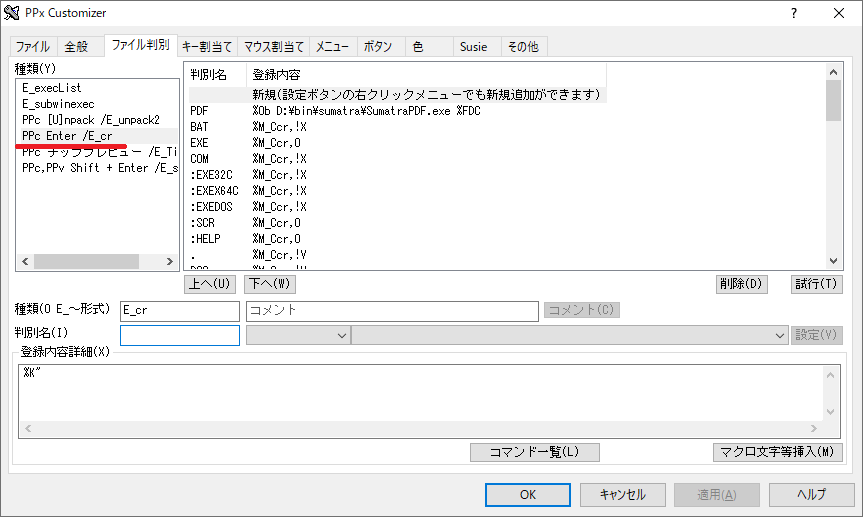
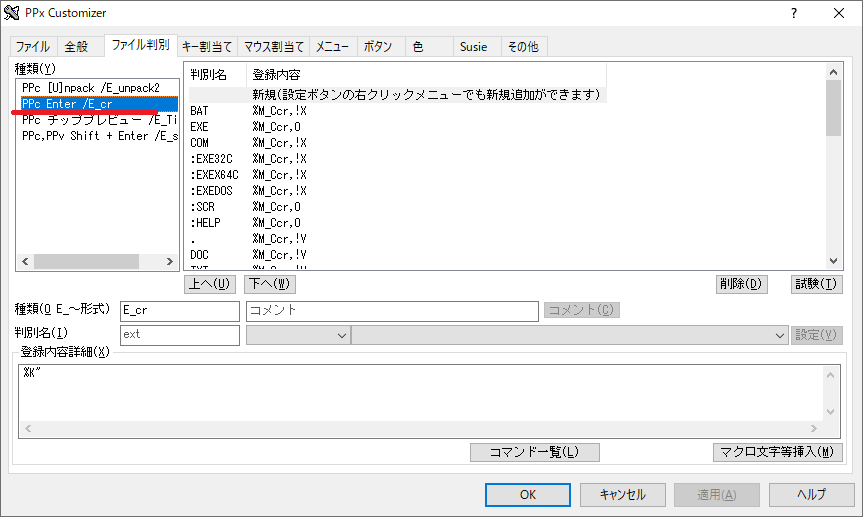
テキスト編集によるカスタマイズ追加

diff --git a/my_collections/_basic/ext02.md b/my_collections/_basic/ext02.md
@@ -1,25 +1,55 @@
 ---
-title: 新規作成
+title: ファイル判別の新規作成
 part: ファイル判別
 created_at: 2022-03-31
-last_modified_at: 
+last_modified_at: 2023-07-22
 ---
+
+## GUIによるカスタマイズ
 
 カスタマイザーを開き、ファイル判別タブを選択する。種類のところに、既存のファイル判別パターンの名前（ここではE_cr）が入力されている。これを消して、新規に作りたいパターンの名前を入力する。ここでは、E_testとしよう。
 
-![alt]({{ "/assets/images/hanbetunew01.png" | relative_url }})
+![種類の指定]({{ "/assets/images/hanbetunew01.png" | relative_url }})
 
 ついで、判別名に拡張子を。登録内容詳細に、その拡張子で実行したい内容を書き、設定をクリック。
 
-![alt]({{ "/assets/images/hanbetunew02.png" | relative_url }})
+![拡張子とコマンドを登録]({{ "/assets/images/hanbetunew02.png" | relative_url }})
 
 すると、新たな種類E_testが作成され、そこに先の拡張子判別が登録される。
 
-![alt]({{ "/assets/images/hanbetunew03.png" | relative_url }})
+![追加された]({{ "/assets/images/hanbetunew03.png" | relative_url }})
 
 次に、２つ目の拡張子を登録する。左上の種類から、先に作成したパターン（E_test）を選択。右上から新規を選択したあと、項目名と登録内容を埋めて、設定を押す。
 
-![alt]({{ "/assets/images/hanbetunew04.png" | relative_url }})
+![2つ目の拡張子登録]({{ "/assets/images/hanbetunew04.png" | relative_url }})
 
 同様にして、拡張子を登録していく。全て登録し終えたら、適用をクリックしよう。
-こうして作成した拡張子別判別は、`%ME_xxx`で実行することができる。
+
+## テキスト編集によるカスタマイズ
+
+- 判別方法,コマンドライン
+
+という書式で記載する。
+
+```text
+E_test    = {    ; PPcメイン窓
+*	,editor %FCD
+.	,editor %FCD
+:DIR	= C_DIR
+:JPEG	,
+TXT	,editor %FCD
+JPG	,mspaint %FCD
+JPEG	,mspaint %FCD
+PNG	,mspaint %FCD
+}
+```
+
+- 「*」は該当設定がない場合に使われる
+- 「.」は拡張子がないファイルに使われる
+- 「:DIR」はディレクトリに使われる
+- 「:JPEG」はファイルの中身からJPEGと判別したときに使われる
+- 特定の名前、ワイルドカード、正規表現による判別も可能
+
+## 拡張子判別の実行
+
+作成したファイル判別は、`%ME_xxx`(ここでの例なら`%ME_test`)で実行することができる。

diff --git a/my_collections/_basic/menu01.md b/my_collections/_basic/menu01.md
@@ -1,34 +1,54 @@
 ---
-title: 新規作成
+title: メニューの作り方
 part: メニュー
 created_at: 2022-03-31
-last_modified_at: 
+last_modified_at: 2023-07-22
 ---
+
+## GUIによるカスタマイズ
 
 メニュータブを選択する。
 
-![alt]({{ "/assets/images/menu01.png" | relative_url }})
+![メニュータブ]({{ "/assets/images/menu01.png" | relative_url }})
 
 種類のところに、既存のメニュー名（ここではM_pjump）が入力されている。これを消して、新規に作りたいメニュー名を入力する。ここでは、M_testというメニュー名にしよう。
 次いで、個々の項目を登録。項目名と登録内容を記入して、設定を押す。
 
-![alt]({{ "/assets/images/menu03.png" | relative_url }})
+![設定ボタン]({{ "/assets/images/menu03.png" | relative_url }})
 
 すると、新たにM_testメニューが作成され、そこに先に登録した項目が登録される。
 
-![alt]({{ "/assets/images/menu04.png" | relative_url }})
+![登録内容の欄]({{ "/assets/images/menu04.png" | relative_url }})
 
 次に、２つ目の項目を登録する。左上の種類から、先に作成したメニュー（M_test）を選択。右上から新規を選択したあと、項目名と登録内容を埋めて、設定を押す。
 
-![alt]({{ "/assets/images/menu05.png" | relative_url }})
+![2つ目の項目を登録]({{ "/assets/images/menu05.png" | relative_url }})
 
 同様にして、項目を追加していく。
 
 区切り線を挿入したい場合は、線挿入をクリックして、挿入したいものを選択。登録内容は空欄でいい。
 
-![alt]({{ "/assets/images/menu06.png" | relative_url }})
+![区切り線]({{ "/assets/images/menu06.png" | relative_url }})
 
 項目を全て追加したら、適用をクリックしよう。
 
-作成したメニューは、`%M_xxx`で表示できる。
+## テキスト編集によるカスタマイズ
 
+「表示内容 = 項目内容」の形式で記載する。
+
+```text
+-|M_test=
+
+M_test = {
+Systemメニュー = %K"@&SPACE"
+最小化 = %K"@\ESC"
+-- =
+Help表示 = %K"@F1"
+}
+```
+
+## メニューの表示
+
+作成したメニューは`%M_xxx`(ここでの例なら`%M_test`)で表示できる。
+
+![メニュー表示]({{ "/assets/images/menu07.png" | relative_url }})

diff --git a/my_collections/_basic/cust04.md b/my_collections/_basic/cust04.md
@@ -2,27 +2,30 @@
 title: キー割り当て
 part: 基本的なカスタマイズ
 created_at: 2022-03-31
-last_modified_at: 
+last_modified_at: 2023-07-22
 ---
-## 種類の選択
+
+## GUIによるカスタマイズ
+
+### 種類の選択
 
 ![alt]({{ "/assets/images/key01.png" | relative_url }})
 
 まずは、種類を選択。ファイラ部分のキーカスタマイズをしたいならPPc /KC_mainを選択しよう。他にいじる機会が多いのは、ビューア部分のPPV / KV_main。
 
-## 新規を選択
+### 新規を選択
 
 ![alt]({{ "/assets/images/key02.png" | relative_url }})
 
 右上のウィンドウの、新規にカーソルあわせる。既に設定したキーバインドを変更したい場合は、それを選択しよう。
 
-## キー指定
+### キー指定
 
 ![alt]({{ "/assets/images/key03.png" | relative_url }})
 
 キー指定をクリックし、割り当てたいキーを押して、Okをクリック。
 
-## 内容を登録する
+### 内容を登録する
 
 ついで、内容を登録する。登録内容詳細に直接書いてもいいし、
 
@@ -37,3 +40,28 @@ last_modified_at:
 ![alt]({{ "/assets/images/key06.png" | relative_url }})
 
 その後、設定ボタンを押す。これで、そのキーバインドが追加される。適用ボタンを押すと、その設定が反映される。
+
+## テキスト編集によるカスタマイズ
+
+- キー割り当ての対象
+- 割り当て先キー名称
+- 割り当てるキー名称/実行するコマンド
+
+を以下の書式で記述する。
+
+```text
+KC_main	= {	; PPcメイン窓
+^\T	= @F1
+F9	,echo hoge
+F10	,*string o,hoge=%FCD
+	echo %so"hoge"
+F11	,*ifmatch 0,"0%2" %: *linemessage 反対窓はありません %: *stop
+	*linemessage 反対窓があります
+FIRSTEVENT , *checkupdate ni
+}
+```
+
+- 単純にキーを割り当てたい場合は「=」を、それ以外の場合は「,」を使う
+- `^\T	= @F1`の「@」は、初期割り当てキーを指定するためのもの。これがないと、[F1]をカスタマイズしていた場合、その内容を読み取ってしまう
+- 実行したいキーには、各種EVENTを登録することもできる
+

diff --git a/my_collections/_basic/cust05.md b/my_collections/_basic/cust05.md
@@ -12,7 +12,7 @@ last_modified_at:
 
 の三つを設定することになる。
 
-## カスタマイザーでの設定方法
+## GUIによるカスタマイズ
 
 マウス割当てタブを開き、種類からMC_clic（PPcの場合。PPvの場合はMV_clic）を。右上の項目から新規を選択。①のドロップダウンリストから、割り当てたいボタン種を選択する。
 
@@ -36,7 +36,7 @@ last_modified_at:
 設定が全て終わったら、下部のOKボタンか適用を押して、設定を反映させよう。
 
 
-## CFGで編集
+## テキスト編集によるカスタマイズ
 
 CFGのMC_clic（PPcの場合。PPvの場合はMV_clic）を編集することでも、マウスクリックの割当てをカスタマイズすることができる。
 
@@ -67,5 +67,3 @@ X_ENT = @^LEFT
 LD_ENTであれば「エントリ（ENT)を左ダブルクリック（LD）した時」の意味であり、L_FRAMであれば「フレーム（FRAM)を左クリック（L）した時」の意味。
 
 &や^は修飾キーで、&LD_ENTであれば「エントリ（ENT）をAltキー（&）を押しながら左ダブルクリック（LD）した時」になるわけだ。
-
-慣れたら、カスタマイザーを使うよりはCFGを編集する方が、早くて楽かもしれない。

diff --git a/my_collections/_basic/cust06.md b/my_collections/_basic/cust06.md
@@ -15,7 +15,7 @@ XV_drag = 0,1,3,2 ; ドラッグ開始ボタン スクロール,選択,窓移動
 
 このページでは、マウスジェスチャーをカスタマイズする方法について解説する。
 
-## カスタマイザーでの設定方法
+## GUIによるカスタマイズ
 
 マウス割当てタブを開き、種類からMC_clic（PPcの場合。PPvの場合はMV_clic）を。右上の項目から新規を選択。①のドロップダウンリス トから、「RG 右ジェスチャ」を選択する。ドロップダウンリストの最初の項目ではあるが、一度ドロップダウンリストを開き、選択をし直す必要がある。
 
@@ -33,7 +33,7 @@ XV_drag = 0,1,3,2 ; ドラッグ開始ボタン スクロール,選択,窓移動
 
 設定が全て終わったら、下部のOKボタンか適用を押せば、設定が反映される。
 
-## CFGで編集
+## テキスト編集によるカスタマイズ
 
 CFGのMC_clic（PPcの場合。PPvの場合はMV_clic）を編集することでも、マウスジェスチャーをカスタマイズすることができる。  書式は次のようになっている。
 

diff --git a/my_collections/_basic/ext01.md b/my_collections/_basic/ext01.md
@@ -1,8 +1,8 @@
 ---
-title: 判別の追加
+title: ファイル判別の追加
 part: ファイル判別
 created_at: 2022-03-31
-last_modified_at: 
+last_modified_at: 2023-07-22
 ---
 デフォルトでは
 
@@ -12,14 +12,28 @@ last_modified_at:
 
 のファイル判別が用意されている。ここでは、Enterのファイル判別をカスタマイズしてみよう。
 
+## GUIによるカスタマイズ
+
 - カスタマイザー - ファイル判別タブ
 
 から PPc [Enter] /E_cr を選択する。
 
-![alt]({{ "/assets/images/hanbetu01.png" | relative_url }})
+![E_cr]({{ "/assets/images/hanbetu01.png" | relative_url }})
 
 判別名に拡張子を。登録内容詳細に実行したいコマンドを入力して、設定を押す。
 
-![alt]({{ "/assets/images/hanbetu02.png" | relative_url }})
+![設定ボタンを押す]({{ "/assets/images/hanbetu02.png" | relative_url }})
 
 設定が終わったら、適用あるいはOKを押す。
+
+## テキスト編集によるカスタマイズ
+
+- 判別方法,コマンド
+
+という書式で記載する。
+
+```text
+E_cr	= {	; [Enter]用判別
+TXT	,editor %FCD
+}
+```
